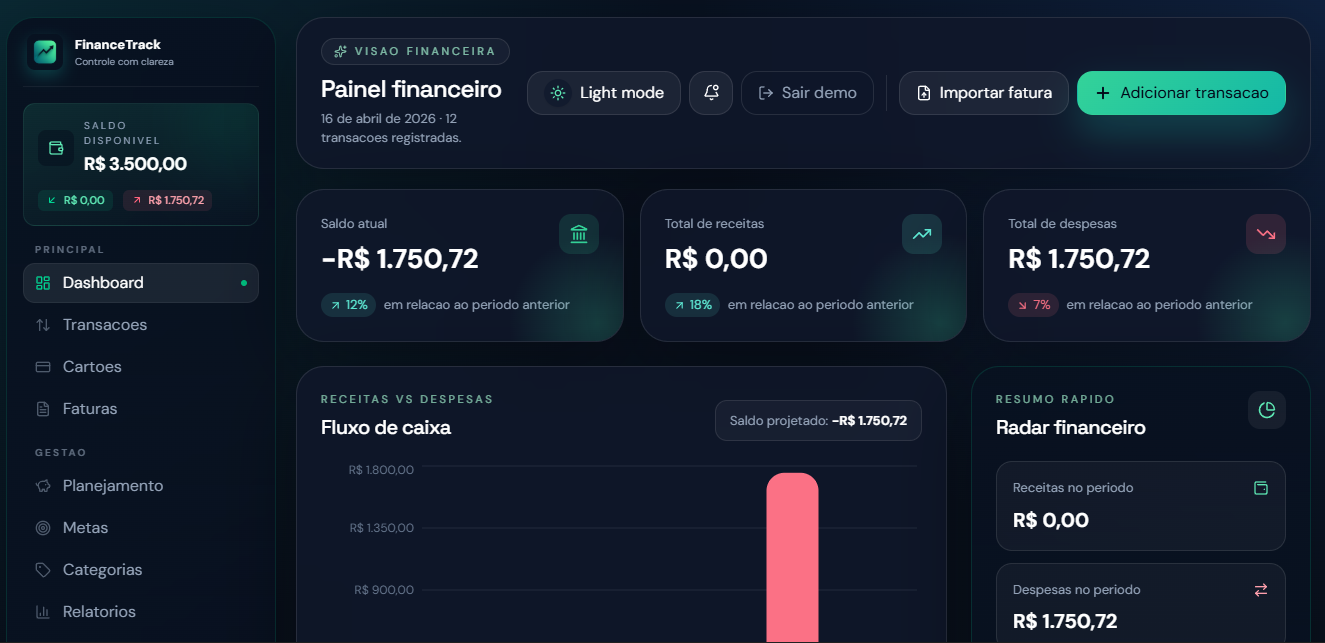
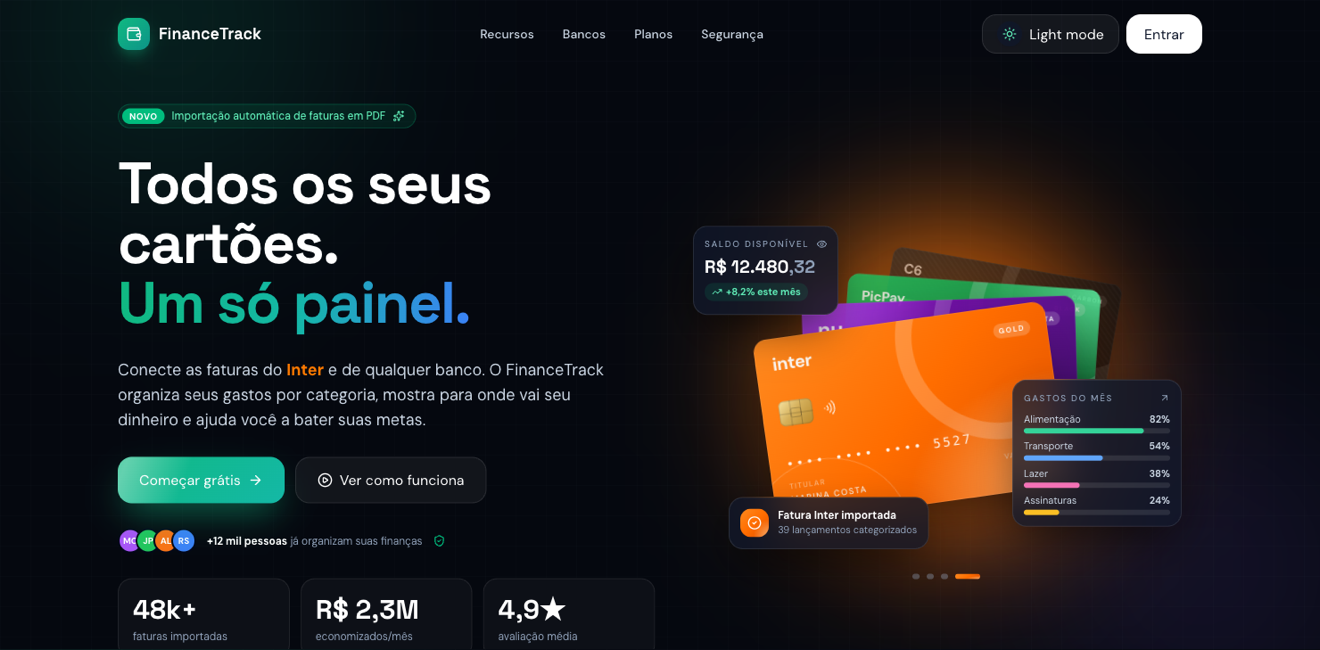
chore: atualiza imagens do FinanceTrack e MedLembre
Novas capturas das páginas iniciais atualizadas dos dois projetos e
texto alternativo do FinanceTrack ajustado para a nova imagem.

diff --git a/src/data/projects.js b/src/data/projects.js
@@ -95,7 +95,7 @@ export const projects = [
       "Aplicação web de controle financeiro pessoal com dashboard interativo, autenticação segura e sistema de planos FREE e PREMIUM para gerenciar receitas, despesas e acompanhar a saúde financeira.",
     technologies: ["JavaScript", "TypeScript", "React", "Next.js", "Node.js", "Supabase", "PostgreSQL", "HTML", "CSS"],
     image: financeTrackImage,
-    alt: "Dashboard do FinanceTrack com controle financeiro pessoal",
+    alt: "Página inicial do FinanceTrack com cartões de bancos e resumo de gastos do mês",
     demoLink: "https://finance-track-kappa.vercel.app/",
     githubLink: "https://github.com/GiovanneMedeiros/finance-track",
     category: ["frontend", "backend"],
